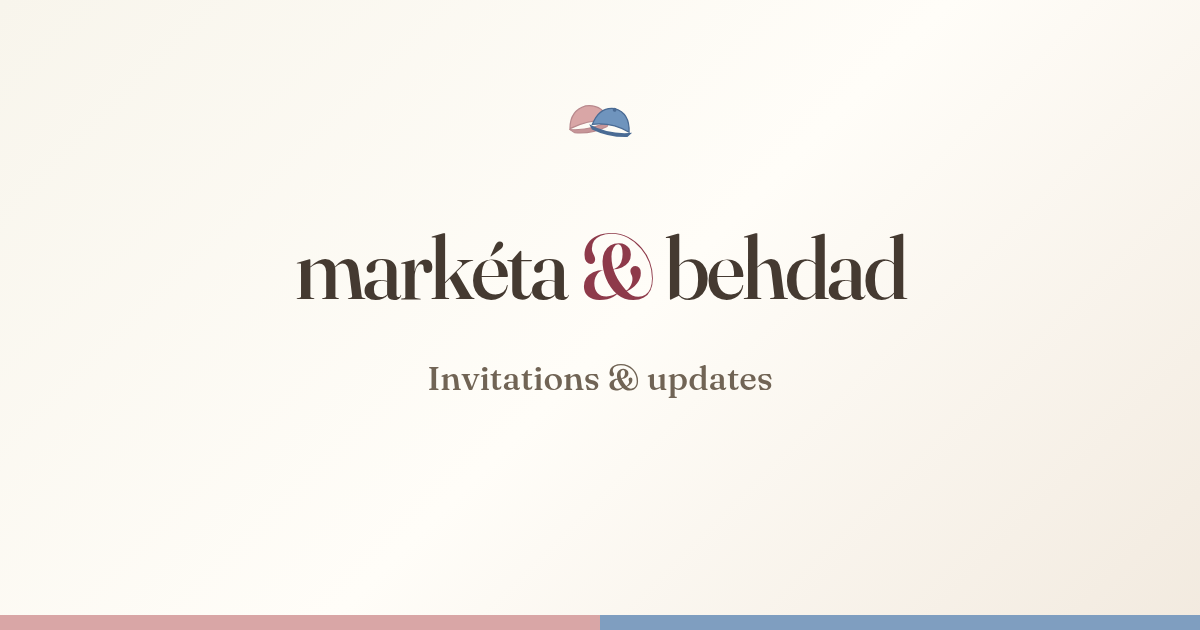
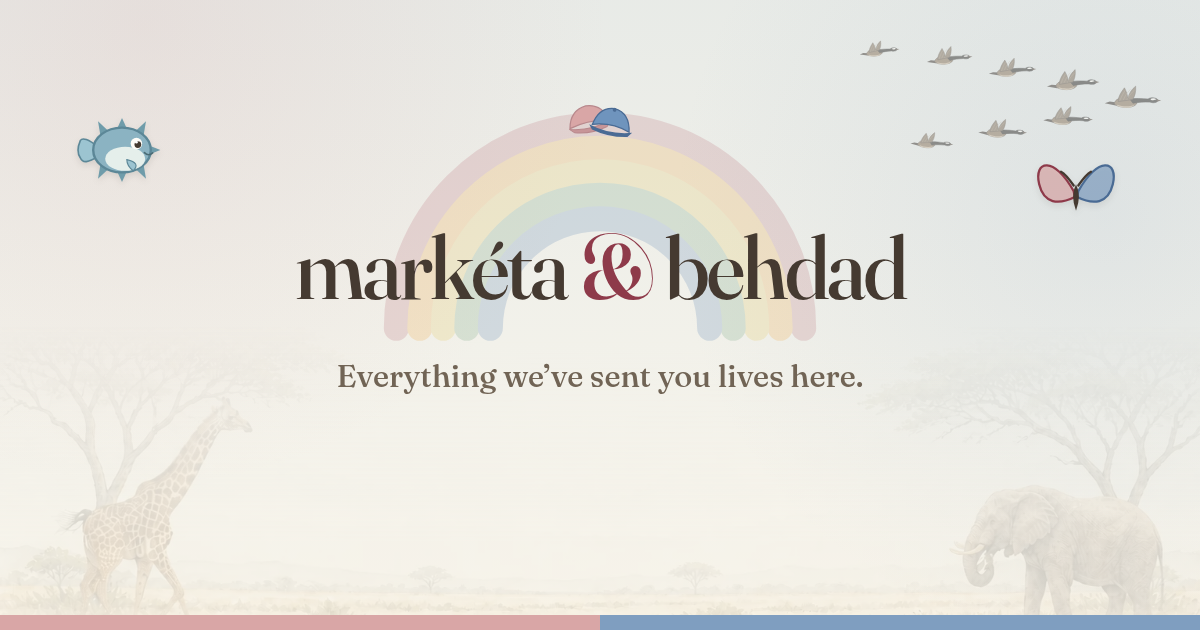
Bring the hub flourishes to its social card

diff --git a/tests/social-card-render.html b/tests/social-card-render.html
@@ -14,11 +14,22 @@
   .egg-card,.loft-card,.hub-card{display:none}
   body.egg .egg-card,body.loft .loft-card,body.hub .hub-card{display:block}
 
-  .hub-card{height:100%;background:linear-gradient(135deg,#f8f5ec 0%,#fffdf8 52%,#f2eadf 100%)}
+  .hub-card{height:100%;background:
+    radial-gradient(circle at 12% 4%,rgba(217,166,166,.18),transparent 29rem),
+    radial-gradient(circle at 92% 34%,rgba(127,158,192,.14),transparent 27rem),
+    linear-gradient(180deg,rgba(149,181,205,.16),rgba(149,181,205,.07) 300px,transparent 620px),
+    #f8f5ec}
+  .hub-savanna{position:absolute;inset:0;width:100%;height:100%;object-fit:cover;opacity:.16;
+    -webkit-mask-image:linear-gradient(to bottom,transparent 0 51%,#000 86%);mask-image:linear-gradient(to bottom,transparent 0 51%,#000 86%)}
+  .hub-rainbow{position:absolute;left:50%;top:48px;width:470px;height:310px;transform:translateX(-50%);opacity:.28}
+  .hub-rainbow path{fill:none;stroke-width:16;stroke-linecap:round}
   .hub-caps{position:absolute;left:50%;top:88px;width:100px;transform:translateX(-50%)}
   .hub-title{position:absolute;left:0;right:0;top:223px;font-size:88px;font-weight:500;letter-spacing:-.035em;line-height:1;text-align:center}
   .hub-title span{color:#8e3a4a}
-  .hub-subtitle{position:absolute;left:0;right:0;top:357px;color:#716455;font-size:34px;font-weight:500;text-align:center}
+  .hub-subtitle{position:absolute;left:0;right:0;top:357px;color:#716455;font-size:31px;font-weight:500;text-align:center}
+  .hub-fishu{position:absolute;left:66px;top:110px;width:112px;filter:drop-shadow(0 3px 3px rgba(69,58,49,.12))}
+  .hub-butterfly{position:absolute;right:78px;top:151px;width:92px;filter:drop-shadow(0 3px 3px rgba(69,58,49,.12))}
+  .hub-geese{position:absolute;right:34px;top:21px;width:360px;opacity:.5}
 
   .egg-card{height:100%;background:linear-gradient(135deg,#f8f5ec 0%,#fffdf8 50%,#f2eadf 100%)}
   .egg-scene{position:absolute;top:34px;width:405px;height:548px;object-fit:cover;border:10px solid #fffdf8;border-radius:24px;background:#fffdf8;box-shadow:0 18px 38px rgba(69,58,49,.24)}
@@ -36,9 +47,46 @@
 </head>
 <body>
 <main class="card hub-card">
+  <img class="hub-savanna" src="../art/rsvp-savanna.webp" alt="">
+  <svg class="hub-rainbow" viewBox="0 0 300 180" aria-hidden="true">
+    <path d="M20 170 A130 130 0 0 1 280 170" stroke="#c68e95"/>
+    <path d="M35 170 A115 115 0 0 1 265 170" stroke="#efb866"/>
+    <path d="M50 170 A100 100 0 0 1 250 170" stroke="#e7d17d"/>
+    <path d="M65 170 A85 85 0 0 1 235 170" stroke="#8fb596"/>
+    <path d="M80 170 A70 70 0 0 1 220 170" stroke="#7f9ec0"/>
+  </svg>
+  <svg class="hub-fishu" viewBox="-35 -25 70 50" aria-hidden="true">
+    <g fill="#6f9caa"><path d="M-3-13.5H3L0-20Z"/><path d="m8.5-11.8 5 2.6 1.5-8.8Z"/><path d="M16.5-3v6L24 0Z"/><path d="m13.5 9.2-5 2.6L15 18Z"/><path d="M-3 13.5H3L0 20Z"/><path d="m-8.5 11.8-5-2.6L-15 18Z"/><path d="m-13.5-9.2 5-2.6L-15-18Z"/></g>
+    <path d="M-15-2q-9-7-11-4-3 7 0 11 2 5 11-1Z" fill="#9cc4d1" stroke="#5c8797"/>
+    <ellipse cx="0" cy="0" rx="18" ry="14" fill="#8bb3c2" stroke="#5c8797" stroke-width="1.5"/>
+    <ellipse cx="2" cy="5.5" rx="12.5" ry="7.5" fill="#eef5ef" opacity=".9"/>
+    <path d="M3 6q9 2 4 7-4-3-4-7Z" fill="#9cc4d1" stroke="#5c8797" stroke-width=".7"/>
+    <circle cx="9" cy="-4" r="3.6" fill="#fffdf8"/><circle cx="9.9" cy="-3.4" r="2.1" fill="#453a31"/><circle cx="9" cy="-4.9" r=".85" fill="#fff"/>
+    <path d="M14 1.6q2.6 2.6 5.2.2" fill="none" stroke="#4a6b74" stroke-linecap="round"/>
+  </svg>
+  <svg class="hub-butterfly" viewBox="0 0 80 70" aria-hidden="true">
+    <path d="M38 35C21 4 3 8 8 29c4 17 17 18 31 11Z" fill="#d9a6a6" fill-opacity=".7" stroke="#8e3a4a" stroke-width="2"/>
+    <path d="M42 35C59 4 77 8 72 29c-4 17-17 18-31 11Z" fill="#7f9ec0" fill-opacity=".7" stroke="#4a6b94" stroke-width="2"/>
+    <path d="M40 29q-5 10 0 23 5-13 0-23Z" fill="#453a31"/><path d="M38 30q-7-10-11-12m15 12q7-10 11-12" fill="none" stroke="#453a31" stroke-width="2" stroke-linecap="round"/>
+  </svg>
+  <svg class="hub-geese" viewBox="0 0 540 240" aria-hidden="true">
+    <defs><g id="card-goose">
+      <path d="m-23 5-19-3-13 6 28 8Z" fill="#413a35"/>
+      <path d="M-29 4c4-13 19-19 37-15 15 3 23 12 19 22-7 13-31 16-50 6-6-3-9-8-6-13Z" fill="#8b765f" stroke="#4d443c" stroke-width="1.8"/>
+      <path d="M-22 13c13 7 32 8 44 0-5 13-27 15-45 4Z" fill="#d0bea4" opacity=".92"/>
+      <path d="M10-7c14-3 31-2 47 0 5-5 14-6 21-2 5 3 6 8 2 12-4 4-12 4-18 1-15-1-31 1-44 4Z" fill="#353330" stroke="#292725" stroke-width="1.7"/>
+      <path d="M63-7c4-4 12-3 16 0-3 4-9 5-14 3Z" fill="#fffdf8"/><path d="m79-6 12 4-11 5Z" fill="#55483e"/><circle cx="77" cy="-8" r="1.2"/>
+      <path d="M-20 2c-1-14 6-31 16-49 5 13 8 26 9 39 2-19 10-34 20-45 1 21-2 36-8 48Z" fill="#81715f" stroke="#4d443c" stroke-width="1.5"/>
+      <path d="M-16-1c5-18 11-31 14-37M-7-4c6-18 12-30 19-38M2-4c7-17 14-28 20-35" fill="none" stroke="#b4a18a" stroke-width="1.4" opacity=".9"/>
+    </g></defs>
+    <use href="#card-goose" transform="translate(480 120) scale(.58 .42)"/><use href="#card-goose" transform="translate(391 94) rotate(-2) scale(.54 .39)"/>
+    <use href="#card-goose" transform="translate(384 147) rotate(2) scale(.51 .36)"/><use href="#card-goose" transform="translate(301 75) rotate(-3) scale(.49 .35)"/>
+    <use href="#card-goose" transform="translate(286 166) rotate(3) scale(.5 .36)"/><use href="#card-goose" transform="translate(207 57) rotate(-4) scale(.47 .34)"/>
+    <use href="#card-goose" transform="translate(181 183) rotate(4) scale(.44 .31)"/><use href="#card-goose" transform="translate(103 46) rotate(-5) scale(.41 .29)"/>
+  </svg>
   <img class="hub-caps" src="../art/caps.svg" alt="">
   <div class="hub-title">markéta <span>&amp;</span> behdad</div>
-  <div class="hub-subtitle">Invitations &amp; updates</div>
+  <div class="hub-subtitle">Everything we’ve sent you lives here.</div>
   <div class="rule"></div>
 </main>
 <main class="card egg-card">

diff --git a/tests/social-cards.js b/tests/social-cards.js
@@ -34,7 +34,7 @@ check(/egg-scene loft[^>]+loft-scene\.svg/.test(renderer) &&
   /egg-scene garden[^>]+garden-scene\.svg/.test(renderer),
   "Egg Hunt card pairs the two authored scene illustrations");
 check(/hub-caps[^>]+caps\.svg/.test(renderer) &&
-  /hub-title[^>]*>markéta/.test(renderer) && /Invitations &amp; updates/.test(renderer),
+  /hub-title[^>]*>markéta/.test(renderer) && /Everything we’ve sent you lives here\./.test(renderer),
   "hub card keeps the root preview generic");
 
 [
